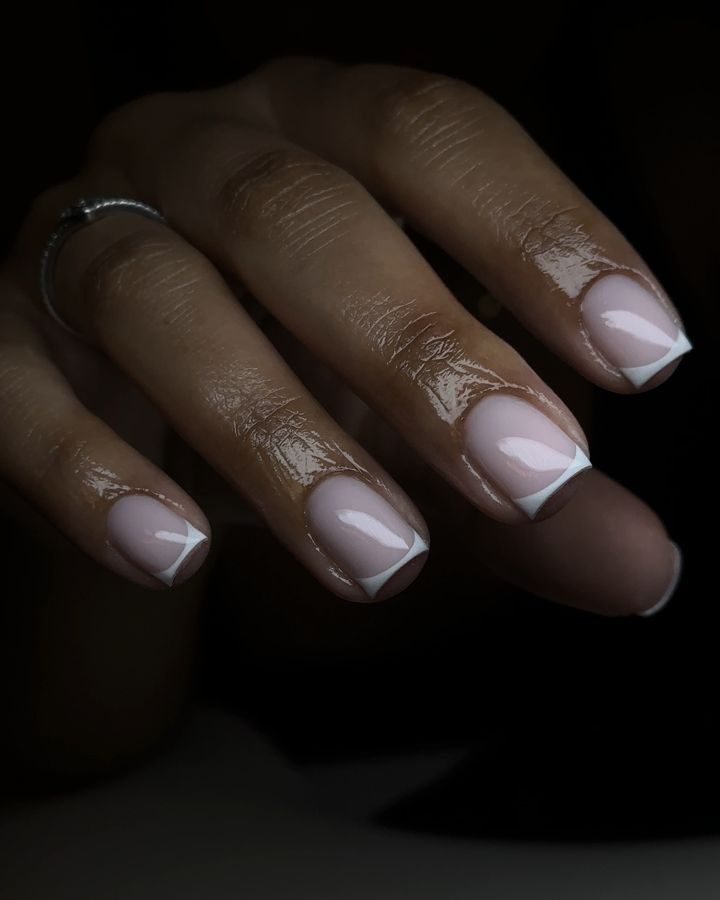
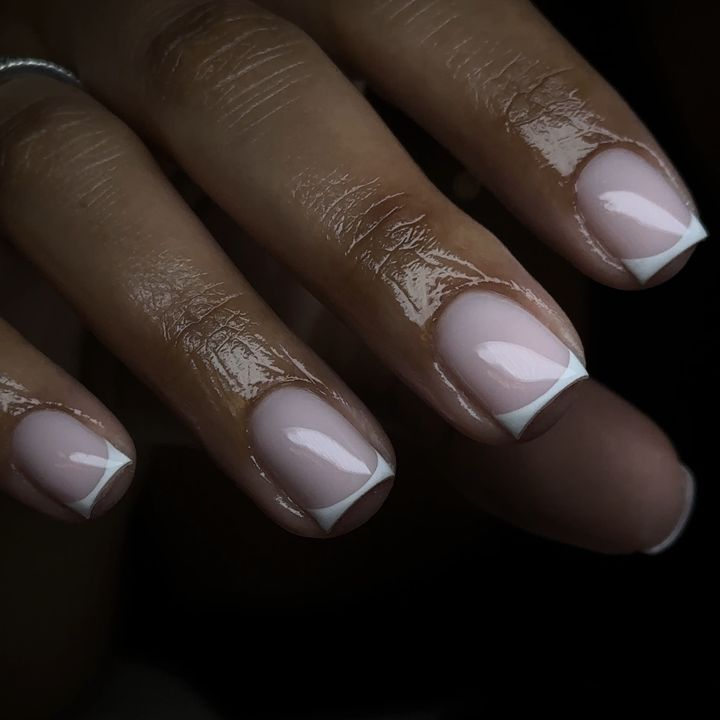
Add Tier 4 photos and crop all tier photos tighter on the nails
Claude-Session: https://claude.ai/code/session_018n7bmWutaPRT1uxHunTzJk

diff --git a/index.html b/index.html
@@ -157,10 +157,10 @@ h2 { font-family: var(--head); font-weight: 400; font-size: 30px; line-height: 1
 .tiers b { font-family: var(--head); font-weight: 400; font-size: 17px; letter-spacing: 1px; }
 .tiers .amt { font-weight: 800; font-variant-numeric: tabular-nums; }
 .gallery { display: flex; gap: 10px; overflow-x: auto; scroll-snap-type: x mandatory; padding-bottom: 6px; margin: 0 -18px; padding-left: 18px; padding-right: 18px; }
-.gallery figure { flex: 0 0 62%; margin: 0; scroll-snap-align: start; position: relative; }
-.gallery img { display: block; width: 100%; height: auto; aspect-ratio: 4 / 5; object-fit: cover; }
+.gallery figure { flex: 0 0 72%; margin: 0; scroll-snap-align: start; position: relative; }
+.gallery img { display: block; width: 100%; height: auto; aspect-ratio: 1 / 1; object-fit: cover; }
 .gallery figcaption { position: absolute; left: 8px; top: 8px; background: var(--night); color: var(--pink); font-family: var(--head); font-size: 15px; letter-spacing: 2px; padding: 3px 8px 1px; }
-.result-pic { display: block; width: 100%; max-height: 260px; object-fit: cover; object-position: center 25%; }
+.result-pic { display: block; width: 100%; height: auto; aspect-ratio: 1 / 1; object-fit: cover; }
 .result-pic[hidden] { display: none; }
 
 /* lists */
@@ -276,14 +276,19 @@ footer .copy { font-family: var(--body); font-size: 12px; letter-spacing: 0; col
 
     <p class="q" id="ex-h">REAL SETS BY TIER</p>
     <div class="gallery" role="list" aria-labelledby="ex-h">
-      <figure role="listitem"><img src="img/tier1-2.jpg" width="720" height="900" loading="lazy" alt="Tier 1 set: almond nails in iridescent chrome"><figcaption>TIER 1</figcaption></figure>
-      <figure role="listitem"><img src="img/tier1-1.jpg" width="720" height="900" loading="lazy" alt="Tier 1 set: sheer nude almond nails with a small dotted white starfish on each nail"><figcaption>TIER 1</figcaption></figure>
-      <figure role="listitem"><img src="img/tier1-3.jpg" width="588" height="735" loading="lazy" alt="Tier 1 set: long stiletto nails with a pink cat-eye shimmer"><figcaption>TIER 1</figcaption></figure>
-      <figure role="listitem"><img src="img/tier2-1.jpg" width="720" height="900" loading="lazy" alt="Tier 2 set: short square nails with a classic white French tip"><figcaption>TIER 2</figcaption></figure>
-      <figure role="listitem"><img src="img/tier2-2.jpg" width="720" height="900" loading="lazy" alt="Tier 2 set: almond nails mixing black, silver glitter, pink shimmer and grey nails with a small heart design"><figcaption>TIER 2</figcaption></figure>
-      <figure role="listitem"><img src="img/tier2-3.jpg" width="720" height="900" loading="lazy" alt="Tier 2 set: nude almond nails with pastel striped French tips and small fruit accents"><figcaption>TIER 2</figcaption></figure>
-      <figure role="listitem"><img src="img/tier3-1.jpg" width="720" height="756" loading="lazy" alt="Tier 3 set: nude square nails with pink French tips and zebra-stripe tips lined with pink rhinestones"><figcaption>TIER 3</figcaption></figure>
-      <figure role="listitem"><img src="img/tier3-2.jpg" width="720" height="819" loading="lazy" alt="Tier 3 set: short nails with a black and white polka dot nail, iridescent chrome ridges, a black and yellow aura, and a yellow spotted French tip"><figcaption>TIER 3</figcaption></figure>
+      <figure role="listitem"><img src="img/tier1-2.jpg" width="720" height="720" loading="lazy" alt="Tier 1 set: almond nails in iridescent chrome"><figcaption>TIER 1</figcaption></figure>
+      <figure role="listitem"><img src="img/tier1-1.jpg" width="720" height="720" loading="lazy" alt="Tier 1 set: sheer nude almond nails with a small dotted white starfish on each nail"><figcaption>TIER 1</figcaption></figure>
+      <figure role="listitem"><img src="img/tier1-3.jpg" width="588" height="588" loading="lazy" alt="Tier 1 set: long stiletto nails with a pink cat-eye shimmer"><figcaption>TIER 1</figcaption></figure>
+      <figure role="listitem"><img src="img/tier2-1.jpg" width="720" height="720" loading="lazy" alt="Tier 2 set: short square nails with a classic white French tip"><figcaption>TIER 2</figcaption></figure>
+      <figure role="listitem"><img src="img/tier2-2.jpg" width="720" height="720" loading="lazy" alt="Tier 2 set: almond nails mixing black, silver glitter, pink shimmer and grey nails with a small heart design"><figcaption>TIER 2</figcaption></figure>
+      <figure role="listitem"><img src="img/tier2-3.jpg" width="720" height="720" loading="lazy" alt="Tier 2 set: nude almond nails with pastel striped French tips and small fruit accents"><figcaption>TIER 2</figcaption></figure>
+      <figure role="listitem"><img src="img/tier3-1.jpg" width="720" height="720" loading="lazy" alt="Tier 3 set: nude square nails with pink French tips and zebra-stripe tips lined with pink rhinestones"><figcaption>TIER 3</figcaption></figure>
+      <figure role="listitem"><img src="img/tier3-2.jpg" width="720" height="720" loading="lazy" alt="Tier 3 set: short nails with polka dots, iridescent chrome ridges, a black and yellow aura and a spotted French tip"><figcaption>TIER 3</figcaption></figure>
+      <figure role="listitem"><img src="img/tier4-1.jpg" width="720" height="720" loading="lazy" alt="Tier 4 set: long square nails with bold multicolor stripes, rhinestones and silver star charms"><figcaption>TIER 4</figcaption></figure>
+      <figure role="listitem"><img src="img/tier4-2.jpg" width="720" height="720" loading="lazy" alt="Tier 4 set: almond nails with abstract pastel shapes, lines, airbrush and gems on every nail"><figcaption>TIER 4</figcaption></figure>
+      <figure role="listitem"><img src="img/tier4-3.jpg" width="720" height="720" loading="lazy" alt="Tier 4 set: long square nails with multicolor swirl French tips outlined in black"><figcaption>TIER 4</figcaption></figure>
+      <figure role="listitem"><img src="img/tier4-4.jpg" width="720" height="720" loading="lazy" alt="Tier 4 set: almond nails with pink 3D flowers, airbrushed spots, seashells and gold studs"><figcaption>TIER 4</figcaption></figure>
+      <figure role="listitem"><img src="img/tier4-5.jpg" width="720" height="720" loading="lazy" alt="Tier 4 set: long square nails with blue marble bubbles, 3D gold swirls and clusters of gems"><figcaption>TIER 4</figcaption></figure>
     </div>
   </section>
 
@@ -435,7 +440,8 @@ footer .copy { font-family: var(--body); font-size: 12px; letter-spacing: 0; col
   var EXAMPLES = {
     1: { src: "img/tier1-2.jpg", alt: "iridescent chrome on every nail" },
     2: { src: "img/tier2-1.jpg", alt: "classic white French tips" },
-    3: { src: "img/tier3-1.jpg", alt: "pink French tips with zebra-stripe tips and rhinestones" }
+    3: { src: "img/tier3-1.jpg", alt: "pink French tips with zebra-stripe tips and rhinestones" },
+    4: { src: "img/tier4-4.jpg", alt: "pink 3D flowers, airbrushed spots, seashells and gold studs" }
   };
   function estimate() {
     if (style === "one") return [1, "One simple element per nail is Tier 1, even on all ten."];
